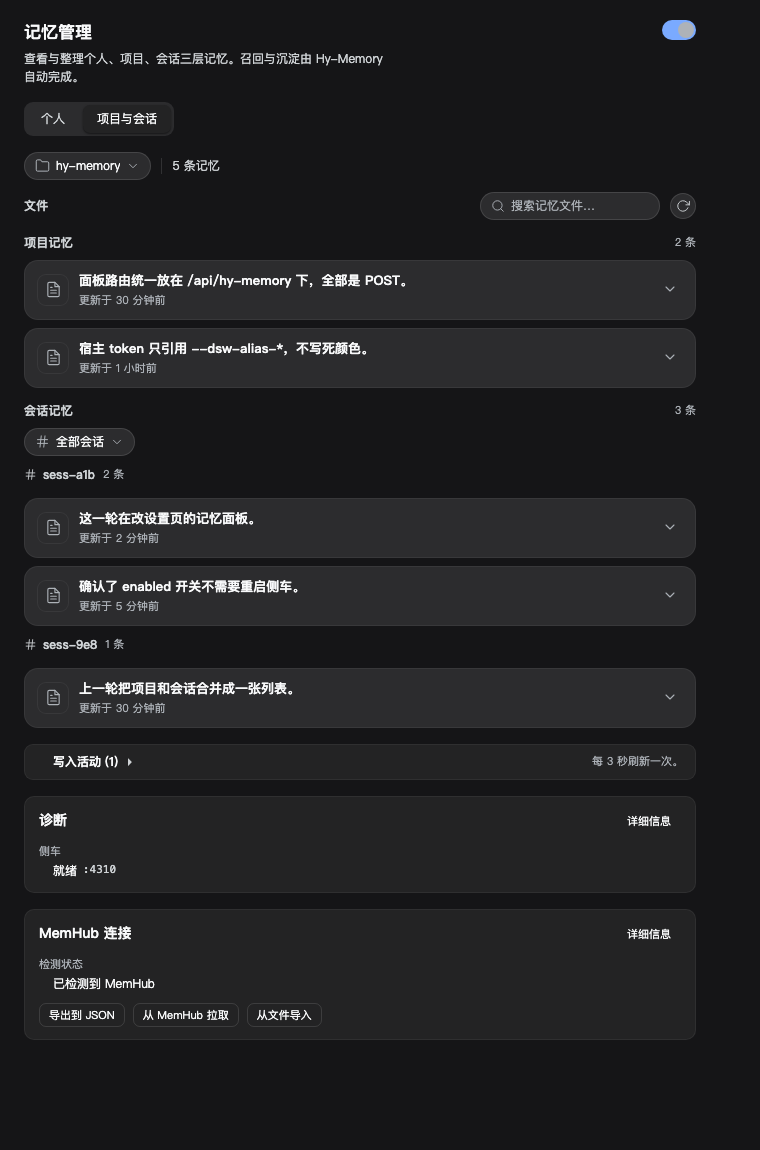
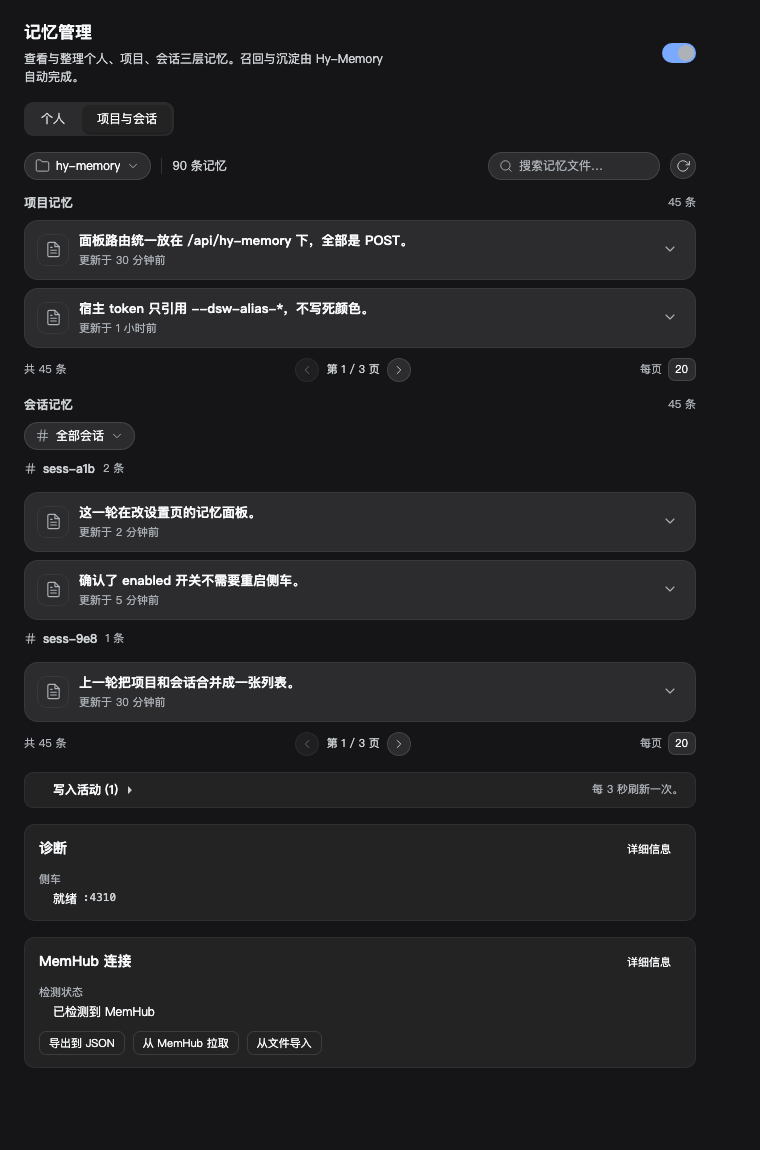
docs: refresh screenshots for footer, absent MemHub and update states

diff --git a/README.md b/README.md
@@ -174,6 +174,8 @@ Real captures from a running DSH instance (`docs/screenshots/`):
 ![Personal tier](docs/screenshots/panel-personal.png)
 ![Project tier](docs/screenshots/panel-project.png)
 ![Session tier](docs/screenshots/panel-session.png)
+![MemHub absent](docs/screenshots/panel-memhub-absent.png)
+![Update check](docs/screenshots/panel-update.png)
 
 ## Verifying it works
 
